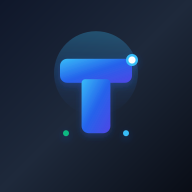
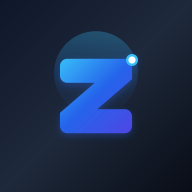
feat(web): switch the brand mark from T to Z
The logo was still the T monogram left over from the Telegram era. Every
mark is now a Z in the same style: dark gradient tile, blue gradient
strokes, accent node at the top-right. The letter is one outline, so the
joints where the diagonal meets the bars stay sharp.

icon.svg, favicon.svg and og-image.svg carry the new mark; icon-maskable.svg
is a new full-bleed source for the maskable and apple-touch icons. All PNGs
and favicon.ico are re-exported from these, which also restores the text
missing from og-image.png. The desktop sidebar tile reads Z.

Changed region(s): [[0.2812, 0.3438, 0.5625, 0.7188], [0.5, 0.4062, 0.7188, 0.7188]]

diff --git a/apps/web/src/shared/ui/app-navigation.tsx b/apps/web/src/shared/ui/app-navigation.tsx
@@ -312,7 +312,7 @@ export function AppNavigation({ active, footer }: { active?: NavigationPage; foo
             className="inline-flex size-6 shrink-0 items-center justify-center rounded-[3px] bg-slate-900 text-xs font-extrabold text-white"
             aria-hidden="true"
           >
-            T
+            Z
           </span>
           <span>
             <strong className="block text-[13px] leading-[1.1] font-bold tracking-[-.01em]">

diff --git a/.agents/artifacts/brand-mark-letter-z/implementation_plan.md b/.agents/artifacts/brand-mark-letter-z/implementation_plan.md
@@ -1,0 +1,85 @@
+# Kế hoạch: đổi logo/icon từ chữ "T" sang chữ "Z"
+
+Rủi ro: **MEDIUM** (nhiều asset nhị phân + 1 dòng UI, không đụng API/DB). Thay đổi nhận diện thương hiệu nên cần anh duyệt.
+
+## Hiện trạng
+
+Mọi logo đang là chữ **T**, còn sót từ thời tích hợp Telegram (`e7e2e9b`). Phong cách giữ nguyên: nền tối gradient `#0f172a → #090d16`, nét chữ gradient xanh `#38bdf8 → #2563eb → #4f46e5`, nét dày bo tròn, chấm sáng góc trên phải, quầng sáng mờ phía sau.
+
+| Nơi dùng | File | Hiện tại |
+| --- | --- | --- |
+| Icon gốc 512 (manifest `any`, SVG) | `apps/web/public/icon.svg` | T + chấm + 2 chấm dưới |
+| Favicon SVG 32 | `apps/web/public/favicon.svg` | T + chấm |
+| Favicon ICO | `apps/web/public/favicon.ico` | raster của T |
+| PWA `any` | `icon-192.png`, `icon-512.png` | raster của `icon.svg` |
+| PWA `maskable` (full-bleed, mark ~80% trong safe zone) | `icon-maskable-192.png`, `icon-maskable-512.png` | T |
+| iOS home screen 180 | `apple-touch-icon.png` | T |
+| Ảnh chia sẻ link (OG) | `og-image.svg` (monogram dòng 70–72), `og-image.png` | T; **bản PNG hiện mất hết chữ** (lúc render trước đây không có font) |
+| Sidebar desktop | `apps/web/src/shared/ui/app-navigation.tsx:315` | ô vuông 24px chữ `T` |
+
+`offline.html` dùng `/favicon.svg` và `/icon-192.png` nên tự đổi theo.
+
+## Thiết kế chữ Z (lưới 512, cùng tỉ lệ với chữ T cũ)
+
+- Thanh trên: x 136–376, y 132–212 (giữ đúng thanh ngang của T), bo góc 24.
+- Thanh dưới: x 136–376, y 300–380, bo góc 24.
+- Đường chéo: hình bình hành nối mép phải thanh trên xuống mép trái thanh dưới, dày ~80px theo phương ngang (cùng độ dày nét), các góc giao được bo để liền khối.
+- Giữ chấm sáng góc trên phải (376,136) và quầng sáng phía sau; bỏ 2 chấm nhỏ dưới đáy vì sẽ đè lên thanh dưới của Z.
+- Toàn bộ chữ nằm trong hình tròn safe zone (bán kính 40% = 205px quanh tâm; góc xa nhất ~172px) nên bản maskable không bị cắt.
+- Favicon 32: cùng hình học thu nhỏ, nét dày hơn tương đối (thanh ~6.5px) để còn đọc được ở 16px.
+- OG monogram 72×72: Z trắng trên ô gradient, như T trắng hiện tại.
+
+## Thay đổi
+
+1. **SVG nguồn** (viết tay, bỏ path T): `icon.svg`, `favicon.svg`, monogram trong `og-image.svg`. Thêm `icon-maskable.svg` (nền full-bleed không bo góc, mark thu 80%) làm nguồn cho bản maskable — không đưa vào manifest.
+2. **Raster** bằng một script dùng một lần trong scratchpad (không commit, không thêm dependency), dùng `sharp` đã có trong repo (`apps/api`) + `magick` cho `.ico`:
+   - `icon.svg` → `icon-192.png`, `icon-512.png`
+   - `icon-maskable.svg` → `icon-maskable-192.png`, `icon-maskable-512.png`, `apple-touch-icon.png` (180, full-bleed vì iOS tự bo góc)
+   - `favicon.svg` → `favicon.ico` (16 + 32)
+   - `og-image.svg` → `og-image.png` (1200×630); kiểm tra chữ có hiện. Nếu sharp vẫn không render được chữ thì báo lại, không tự đổi chữ trong OG thành path.
+3. **Sidebar**: `app-navigation.tsx` đổi `T` → `Z` (giữ ô 24px, `rounded-[3px]`).
+4. Không đổi `manifest.ts`, `layout.tsx`, `sw.js` (tên file giữ nguyên). Service worker có `VERSION` theo build nên bản deploy mới tự lấy icon mới; nginx cache file `public/` 1 ngày.
+
+## Tài liệu
+
+- `.agents/knowledge/global/pwa.md` + `.agents/docs/global/pwa.md`: ghi mark là chữ **Z**, nguồn SVG (`icon.svg`, `icon-maskable.svg`, `favicon.svg`, `og-image.svg`) và cách xuất lại PNG/ICO.
+- `.agents/knowledge/global/web-ui-direction.md` (+ bản VI): "product mark" = ô `Z` 24px.
+- `node .claude/hooks/docs-drift-check.mjs` exit 0.
+
+## Kiểm tra
+
+- Xem trực tiếp từng PNG (512, maskable 512 + khung tròn safe zone, 180, favicon 16/32, OG) để duyệt hình.
+- `npm run typecheck`/`lint --workspace @zalobot/web`.
+- Browser pane: sidebar desktop hiện ô `Z`, tab trình duyệt hiện favicon Z.
+- **Lưu ý**: icon PWA đã cài trên iPhone/Android không tự đổi; phải gỡ rồi thêm lại vào màn hình chính (hoặc chờ Android cập nhật manifest).
+
+## Phụ lục: prompt làm bản chữ "C"
+
+Anh muốn chữ C dùng cho dự án/app khác, nên prompt nằm ở câu trả lời trong chat (và bản sao bên dưới) — kế hoạch này không tạo file chữ C trong repo zalobot.
+
+```text
+Thiết kế lại bộ logo/icon của app thành monogram chữ "C", giữ đúng phong cách sau:
+
+Phong cách
+- Nền: vuông 512×512, bo góc rx=112, gradient chéo #0f172a → #1e293b → #090d16, viền trong 4px #334155 opacity 0.6.
+- Chữ: một khối liền, nét dày ~80px (khoảng 16% cạnh), đầu nét bo tròn, tô gradient chéo #38bdf8 → #2563eb → #4f46e5, đổ bóng mềm màu #2563eb (dy 8, blur 12, opacity 0.35).
+- Phía sau chữ có quầng sáng tròn r≈140 ở nửa trên, gradient dọc #38bdf8 (opacity 0.3) → trong suốt.
+- Một chấm nhấn tròn r=20 màu #38bdf8 với lõi trắng r=12, đặt ở đầu nét trên của chữ C.
+- Không dùng font: chữ vẽ bằng <path> để giống nhau trên mọi máy.
+
+Hình học chữ C (lưới 512)
+- Cung tròn tâm (256,256), bán kính ngoài ~124, trong ~44 (nét 80), mở về bên phải khoảng 90° (từ -45° đến +45°), hai đầu nét cắt bo tròn.
+- Toàn bộ chữ nằm trong vòng tròn bán kính 205 quanh tâm (safe zone maskable).
+
+Bộ file cần xuất (giữ nguyên tên file hiện có của app)
+- icon.svg (512, nền bo góc) → icon-192.png, icon-512.png
+- icon-maskable.svg (nền full-bleed không bo góc, chữ thu 80%) → icon-maskable-192.png, icon-maskable-512.png, apple-touch-icon.png (180)
+- favicon.svg (32×32, rx=7, nét dày tương đối hơn để đọc được ở 16px) → favicon.ico (16+32)
+- Monogram trong ảnh OG 1200×630: ô 72×72 rx=18 nền gradient, chữ C trắng → xuất lại og-image.png và kiểm tra chữ trong ảnh còn hiện.
+- Ô logo nhỏ trong sidebar/header của app đổi ký tự sang "C".
+
+Cách làm
+- Viết SVG tay, xuất PNG/ICO bằng sharp (hoặc ImageMagick) qua một script chạy một lần, không thêm dependency mới.
+- Không đổi tên file, manifest hay service worker.
+- Mở từng PNG để duyệt: bản maskable phải còn nguyên chữ khi cắt tròn; favicon 16px vẫn nhận ra chữ C.
+```

diff --git a/.agents/knowledge/global/web-ui-direction.md b/.agents/knowledge/global/web-ui-direction.md
@@ -78,7 +78,7 @@ Interactive controls need visible keyboard focus, sufficient contrast, and clear
 
 Private workspace headers are rendered once in the common private layout (`apps/web/app/(private)/layout.tsx`) via `<WorkspaceHeader />` with no props — the component auto-resolves title and subtitle from `usePathname()` using `ROUTE_HEADER_MAP`. It distinguishes two auth states: **Authenticated** (`hasToken && !isLoggedOut`, where `isLoggedOut` comes from the `?status=logged_out` query): renders route title/subtitle, Money Visibility toggle (`useMoneyVisibility`), Refresh button (`queryClient.invalidateQueries()`), and Logout button; **Unauthenticated/LoggedOut**: renders route title/subtitle and an "Open Zalo Bot" link (`auth.openzaloBot`; tries the Zalo app via `zalo://`, falls back to `https://chat.zalo.me`; see `modules/auth/README.md`). All module screen files must NOT render their own `<WorkspaceHeader>` — the layout provides it universally. Route title, auth state, refresh, and logout come from the shared hook `useWorkspaceHeader()` (same file). At <= 960px `WorkspaceHeader` is hidden (`max-[960px]:hidden`) and the mobile topbar in `AppNavigation` takes over: `[route title] [money visibility icon] [refresh icon]` (all icon buttons 40px), or the "Open Zalo Bot" link when unauthenticated; the subtitle is not shown on mobile and Logout moves to the More sheet footer. Logout always asks first: both the desktop header button and the More sheet button call `requestLogout()`, which opens `LogoutConfirmDialog` (`apps/web/src/shared/ui/logout-confirm-dialog.tsx`, a wrapper over the generic `ConfirmDialog` in `shared/ui/confirm-dialog.tsx`, which other destructive actions such as calendar delete reuse instead of `window.confirm`; `Modal` with `role="alertdialog"`, centered card on desktop, bottom sheet on phones/PWA stacked above the More sheet, so Cancel/swipe-down returns to it). Only its Logout button calls `confirmLogout()` (POST `dashboardLogout`, clear token and query cache, reload to `?status=logged_out`); while that runs both buttons are disabled and the dialog cannot be dismissed. The hook exposes no direct logout. Reason: re-entry needs a fresh sign-in link from the Zalo Bot, and the phone button sits next to the nav tiles where mis-taps are easy. Masking replaces financial amounts across KPI metric blocks, data tables, and chart tooltips with `common.maskedAmount` (`'••••••'`). Amounts are hidden by default; the choice lives only in the in-memory Zustand store `useMoneyVisibilityStore` (`apps/web/src/shared/store/money-visibility-store.ts`, no `persist` middleware, never `localStorage`), surviving in-app navigation but resetting to hidden on every page load/F5. Amount ratio bars under table amounts (Transactions, Expenses) and in `DebtStructureChart` render only while amounts are revealed, since bar length leaks relative size; the debt paid-% progress bar stays. Inline editing inputs remain unmasked for immediate correction.
 
-The shared navigation (`apps/web/src/shared/ui/app-navigation.tsx`) is an admin-style sidebar on desktop: product mark, five sections (`nav.section.overview`, `finance`, `planning`, `data`, `system`), icon-and-text links, a locale selector, and a semantic active state. Desktop private routes use a viewport-bound shell: only the main content pane scrolls, while the sidebar remains fixed beside it. It must retain visible text plus `aria-current` for the active route. On narrow screens (<= 960px), the shell returns to normal document scrolling, the sidebar is hidden, and navigation moves to the bottom tab bar + More sheet (see Compact Shell) under a sticky topbar (route title, money and refresh icon buttons, 40px); the brand mark appears only in the desktop sidebar.
+The shared navigation (`apps/web/src/shared/ui/app-navigation.tsx`) is an admin-style sidebar on desktop: product mark (24px `Z` tile, matching the PWA icon), five sections (`nav.section.overview`, `finance`, `planning`, `data`, `system`), icon-and-text links, a locale selector, and a semantic active state. Desktop private routes use a viewport-bound shell: only the main content pane scrolls, while the sidebar remains fixed beside it. It must retain visible text plus `aria-current` for the active route. On narrow screens (<= 960px), the shell returns to normal document scrolling, the sidebar is hidden, and navigation moves to the bottom tab bar + More sheet (see Compact Shell) under a sticky topbar (route title, money and refresh icon buttons, 40px); the brand mark appears only in the desktop sidebar.
 
 Dark mode is activated by `html[data-theme='dark']`; the inline script in `app/layout.tsx` sets it before hydration, and `useThemeStore` (`apps/web/src/shared/store/theme-store.ts`) starts as `light`, syncs from `document.documentElement.dataset.theme` in the `AppProviders` mount effect, and persists toggles to `localStorage['zalobot-theme']`; Tailwind dark utilities target this same data attribute via `@custom-variant dark`. All surfaces (desktop/mobile navigation, workspace headers, period controls, data panels, forms, dialogs, charts, and public/legal pages) use Tailwind dark utilities (`dark:bg-*`, `dark:border-*`, `dark:text-*`, `dark:hover:*`, `dark:focus:*`). Keep the selected navigation/action state high contrast and retain a visible light-blue keyboard focus outline.
 

diff --git a/.agents/docs/global/web-ui-direction.md b/.agents/docs/global/web-ui-direction.md
@@ -140,7 +140,7 @@ Tiêu đề theo route, trạng thái đăng nhập, Làm mới, Đăng xuất v
   - Lý do: đăng xuất rồi phải xin lại link đăng nhập từ Zalo Bot, mà trên điện thoại nút này nằm sát các ô điều hướng nên rất dễ bấm nhầm. Không dùng `window.confirm` vì trên PWA nó hiện hộp hệ thống kèm tên miền và không theo dark mode.
 - Lý do: trước đây trên điện thoại có hai thanh header chồng nhau, ba nút chữ ép tiêu đề bị cắt, và mất khoảng 140px trước khi tới nội dung. Mặt nạ che số tiền (key `common.maskedAmount` = `'••••••'`) áp dụng đồng bộ cho các khối KPI, bảng dữ liệu và tooltip biểu đồ. Mặc định số tiền bị ẩn (tránh lộ khi mở dashboard nơi công cộng); lựa chọn của người dùng chỉ nằm trong store Zustand `useMoneyVisibilityStore` trong bộ nhớ (`apps/web/src/shared/store/money-visibility-store.ts`, cố ý không dùng `persist` và không lưu `localStorage`) nên chuyển trang trong app vẫn giữ, còn tải lại trang (F5) thì số tiền ẩn lại; thanh tỉ lệ nhỏ dưới số tiền trong bảng Giao dịch, Chi tiêu và trong biểu đồ Cơ cấu công nợ chỉ hiện khi đang bấm hiện số tiền (độ dài thanh để lộ khoản lớn/nhỏ), còn thanh % đã trả của công nợ vẫn giữ vì chỉ thể hiện tiến độ; các ô input khi đang sửa trực tiếp trên dòng (inline edit) vẫn giữ số thực để phục vụ thao tác.
 
-Thanh điều hướng dùng chung (`apps/web/src/shared/ui/app-navigation.tsx`) theo kiểu sidebar quản trị trên desktop: phân thành 5 nhóm nghiệp vụ (Tổng quan, Tài chính, Kế hoạch, Dữ liệu, Hệ thống — key `nav.section.*`), có ô chọn ngôn ngữ, có dấu nhận diện sản phẩm, icon đi cùng chữ và tự động nhận diện trạng thái trang đang mở theo `usePathname()`. Desktop dùng app shell giới hạn theo viewport: chỉ vùng main content được cuộn, còn sidebar luôn đứng yên bên cạnh. Khi thêm mục mới, luôn giữ nhãn chữ hiển thị qua hệ thống i18n, SVG chỉ là phần hỗ trợ quét nhanh, và đặt `aria-current="page"` cho mục active.
+Thanh điều hướng dùng chung (`apps/web/src/shared/ui/app-navigation.tsx`) theo kiểu sidebar quản trị trên desktop: phân thành 5 nhóm nghiệp vụ (Tổng quan, Tài chính, Kế hoạch, Dữ liệu, Hệ thống — key `nav.section.*`), có ô chọn ngôn ngữ, có dấu nhận diện sản phẩm (ô chữ `Z` 24px, cùng chữ với icon app), icon đi cùng chữ và tự động nhận diện trạng thái trang đang mở theo `usePathname()`. Desktop dùng app shell giới hạn theo viewport: chỉ vùng main content được cuộn, còn sidebar luôn đứng yên bên cạnh. Khi thêm mục mới, luôn giữ nhãn chữ hiển thị qua hệ thống i18n, SVG chỉ là phần hỗ trợ quét nhanh, và đặt `aria-current="page"` cho mục active.
 
 Trên màn hình hẹp (<= 960px), shell trở lại cơ chế cuộn trang bình thường: topbar sticky trên cùng (tên trang, icon số tiền, làm mới) và thanh tab dưới đáy. Mọi trang còn lại mở qua tab "Thêm" (sheet lưới 3 cột). Logo sản phẩm chỉ còn trên sidebar desktop.
 

diff --git a/.agents/artifacts/brand-mark-letter-z/walkthrough.md b/.agents/artifacts/brand-mark-letter-z/walkthrough.md
@@ -1,0 +1,25 @@
+# Walkthrough: logo/icon chữ Z
+
+## Đã thay đổi
+
+- SVG nguồn (vẽ tay, chữ Z là **một path liền**: góc ngoài bo 24, chỗ nét chéo nối thanh ngang để sắc):
+  - `apps/web/public/icon.svg` (512, nền bo góc, quầng sáng, chấm nhấn góc trên phải; bỏ 2 chấm đáy của chữ T cũ).
+  - `apps/web/public/icon-maskable.svg` (mới; nền tràn viền, chữ thu 80%) — chỉ là nguồn xuất PNG, không khai báo trong manifest.
+  - `apps/web/public/favicon.svg` (32px, cùng path thu nhỏ bằng `transform`).
+  - `apps/web/public/og-image.svg` (monogram Z trắng trong ô gradient).
+- Xuất lại bằng script dùng một lần trong scratchpad (sharp của `apps/api` + ImageMagick, không commit, không thêm dependency): `icon-192.png`, `icon-512.png`, `icon-maskable-192.png`, `icon-maskable-512.png`, `apple-touch-icon.png` (180), `favicon.ico` (16 + 32), `og-image.png` (1200×630).
+- Sidebar desktop: `apps/web/src/shared/ui/app-navigation.tsx` ô logo `T` → `Z`.
+- Tài liệu: `.agents/knowledge/global/pwa.md` (+ `depends_on` các SVG nguồn), `.agents/docs/global/pwa.md`, `web-ui-direction.md` (EN + VI).
+
+Lần render đầu, nét chéo ghép từ 3 hình riêng bị lồi một mỏm nhỏ ở góc nối thanh trên; đã gộp thành một path liền rồi xuất lại.
+
+## Kiểm tra
+
+- Xem trực tiếp: `icon-512.png`, `icon-maskable-512.png` (chữ nằm gọn trong vùng an toàn), favicon 16/32 phóng to (vẫn đọc ra Z), `apple-touch-icon.png`, `og-image.png` (**chữ trong ảnh OG đã hiện lại**, bản cũ bị mất chữ).
+- `npm run typecheck --workspace @zalobot/web`, `npm run lint --workspace @zalobot/web`: pass.
+- `node .claude/hooks/docs-drift-check.mjs`: PASS.
+- Chưa xem ô `Z` trên sidebar trong browser pane (dev server lỗi `EPERM uv_cwd`); thay đổi chỉ là một ký tự trong span có sẵn.
+
+## Lưu ý vận hành
+
+- App đã cài trên điện thoại giữ icon cũ cho tới khi gỡ và thêm lại vào màn hình chính; tab trình duyệt có thể giữ favicon cũ tới 1 ngày (nginx cache `public/`).

diff --git a/.agents/knowledge/global/pwa.md b/.agents/knowledge/global/pwa.md
@@ -5,6 +5,10 @@ metadata:
     type: documentation
     depends_on:
       - apps/web/app/manifest.ts
+      - apps/web/public/icon.svg
+      - apps/web/public/icon-maskable.svg
+      - apps/web/public/favicon.svg
+      - apps/web/public/og-image.svg
       - apps/web/app/layout.tsx
       - apps/web/public/sw.js
       - apps/web/public/offline.html
@@ -33,6 +37,7 @@ The dashboard can be installed on the phone home screen and opened full screen l
 - `id`/`start_url`/`scope` = `APP_ROUTES.home`. Never change `id`: browsers would treat it as a different app.
 - `display: standalone`, `orientation: portrait-primary`, `lang: vi`, colors match `layout.tsx` (`#0f172a` theme, `#090d16` background).
 - Icons: `icon-192.png`/`icon-512.png` (`any`), `icon-maskable-192.png`/`icon-maskable-512.png` (`maskable`: full-bleed background, mark scaled to 80% inside the safe zone), `icon.svg`.
+- Brand mark = monogram **Z** (one outline path, 80px strokes on a 512 grid, gradient `#38bdf8 → #2563eb → #4f46e5`, accent node top-right, dark gradient tile; replaced the leftover Telegram-era T on 2026-10-22). Hand-written SVG sources in `public/`: `icon.svg` (rounded tile → `icon-192/512.png`), `icon-maskable.svg` (full-bleed, mark at 80%; not in the manifest → `icon-maskable-192/512.png`, `apple-touch-icon.png` 180), `favicon.svg` (32px, same outline scaled → `favicon.ico` 16+32), `og-image.svg` (white Z monogram → `og-image.png` 1200×630). PNG/ICO are exported from these sources (sharp + ImageMagick, no build step); edit the SVG, re-export, never hand-edit the PNGs. Installed apps keep the old home-screen icon until re-added.
 - Shortcuts (names from i18n `nav.*`, default locale): Transactions, Debts, Reminders.
 - iOS meta stays in `layout.tsx` (`appleWebApp`, `apple-touch-icon`, `viewportFit: 'cover'`).
 

diff --git a/.agents/docs/global/pwa.md b/.agents/docs/global/pwa.md
@@ -32,6 +32,7 @@ Push notification **không** làm, vì lời nhắc đã gửi qua Zalo.
 | Thành phần | Vai trò |
 | --- | --- |
 | `app/manifest.ts` | Sinh `/manifest.webmanifest`: tên, màu, icon (có bản maskable), lối tắt tới Thu chi, Vay & cho vay, Nhắc nhở. Dùng `APP_ROUTES`, không hardcode đường dẫn. |
+| `public/icon.svg`, `icon-maskable.svg`, `favicon.svg`, `og-image.svg` | **Nguồn của logo chữ Z** (vẽ tay bằng path, không dùng font). PNG/ICO xuất ra từ đây: `icon.svg` → `icon-192/512.png`; `icon-maskable.svg` (nền tràn viền, chữ thu 80% để Android cắt tròn không mất nét) → `icon-maskable-192/512.png` và `apple-touch-icon.png`; `favicon.svg` → `favicon.ico` (16 + 32); `og-image.svg` → `og-image.png`. Muốn đổi logo thì sửa SVG rồi xuất lại (sharp/ImageMagick), không sửa tay PNG. Trước 22/10/2026 logo là chữ T còn sót từ thời Telegram. |
 | `public/sw.js` | Service worker tự viết, không thư viện. |
 | `public/offline.html` | Trang hiện khi mất mạng mà trang cần mở chưa từng được lưu. |
 | `src/shared/pwa/*` | Đăng ký service worker, bắt sự kiện cài app, theo dõi online/offline. |

diff --git a/CHANGELOG.md b/CHANGELOG.md
@@ -1,5 +1,9 @@
 # Changelog
 
+## [v1.0.156] - 2026-10-22
+
+- Cập nhật hệ thống.
+
 ## [v1.0.155] - 2026-10-22
 
 - Cập nhật hệ thống.
